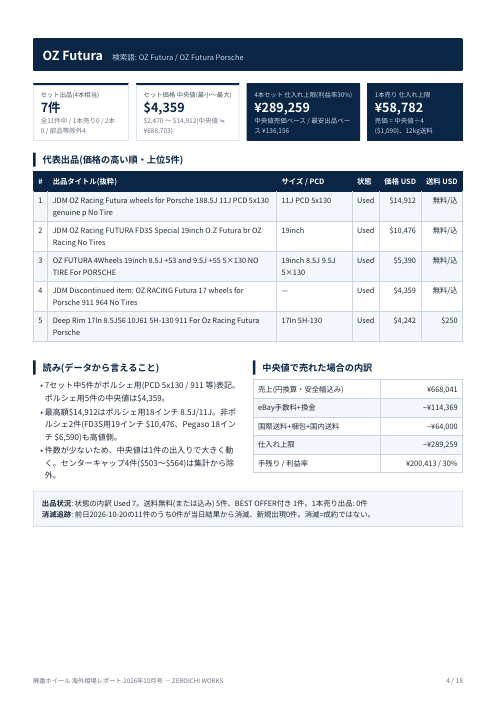
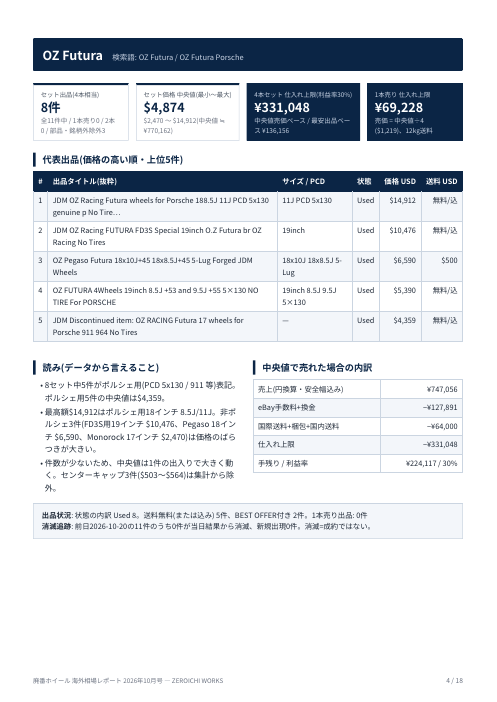
store: QA fixes (page counts, contents, sample image)

diff --git a/site/index.html b/site/index.html
@@ -36,10 +36,10 @@ footer{text-align:center;color:var(--muted);font-size:12px;padding:24px 16px}foo
   <div class="who">こんな方に: eBayで自動車パーツを輸出している/これから始める方、ホイール・旧車部品を扱う業者の方</div>
   <ul>
     <li>eBayに出ている<strong>日本発</strong>の廃番ホイール出品を集計(2026年10月21日時点)</li>
-    <li>OZ Futura / BBS RS / Work Meister / Work Equip / Weds Kranze / MAE / SSR / Rays Volk / Advan / Hayashi / RS Watanabe の12区分</li>
+    <li>OZ Futura / BBS RS / Work Meister / Work Equip / Weds Kranze / MAE / SSR / Rays Volk / Advan / Hayashi / RS Watanabe の11銘柄+汎用検索「その他」の12区分</li>
     <li>銘柄ごとに出品件数・最小/中央値/最高価格・代表出品5件(サイズ・PCD・状態)</li>
     <li>eBay手数料13.25%+国際手数料1.3%+換金3%+為替安全幅3%+国際送料(45kg≒6.25万円)を引いた、<strong>利益率30%で買える国内仕入れ上限(4本・1本売り)</strong></li>
-    <li>総合ランキング表、前日比の出品消滅数(回転の目安)</li>
+    <li>総合ランキング表(仕入れ上限順)、前日比の出品消滅数(回転の目安)、用語・免責、利益計算の前提</li>
   </ul>
   <img src="sample-wheel.png" alt="OZ Futuraページのサンプル" style="max-width:100%">
   <p class="muted">※出品価格ベースの参考資料です。成約価格ではありません。投資助言ではなく、売買の判断はご自身でお願いします。</p>
@@ -49,7 +49,7 @@ footer{text-align:center;color:var(--muted);font-size:12px;padding:24px 16px}foo
 
 <section class="card" id="bantou">
   <img src="cover-bantou.png" alt="AI番頭パッケージ 表紙">
-  <h2>AI番頭パッケージ ― AIに事業を立ち上げさせる手順書+プロンプト20本(PDF・36ページ)</h2>
+  <h2>AI番頭パッケージ ― AIに事業を立ち上げさせる手順書+プロンプト20本(PDF・35ページ)</h2>
   <div class="price">¥4,980 <small>税込・一回払い</small></div>
   <div class="who">こんな方に: AIで副業・小さな事業を始めたいが、何をどう指示すればいいか分からない方。PC不要、スマホだけで再現できます</div>
   <ul>
